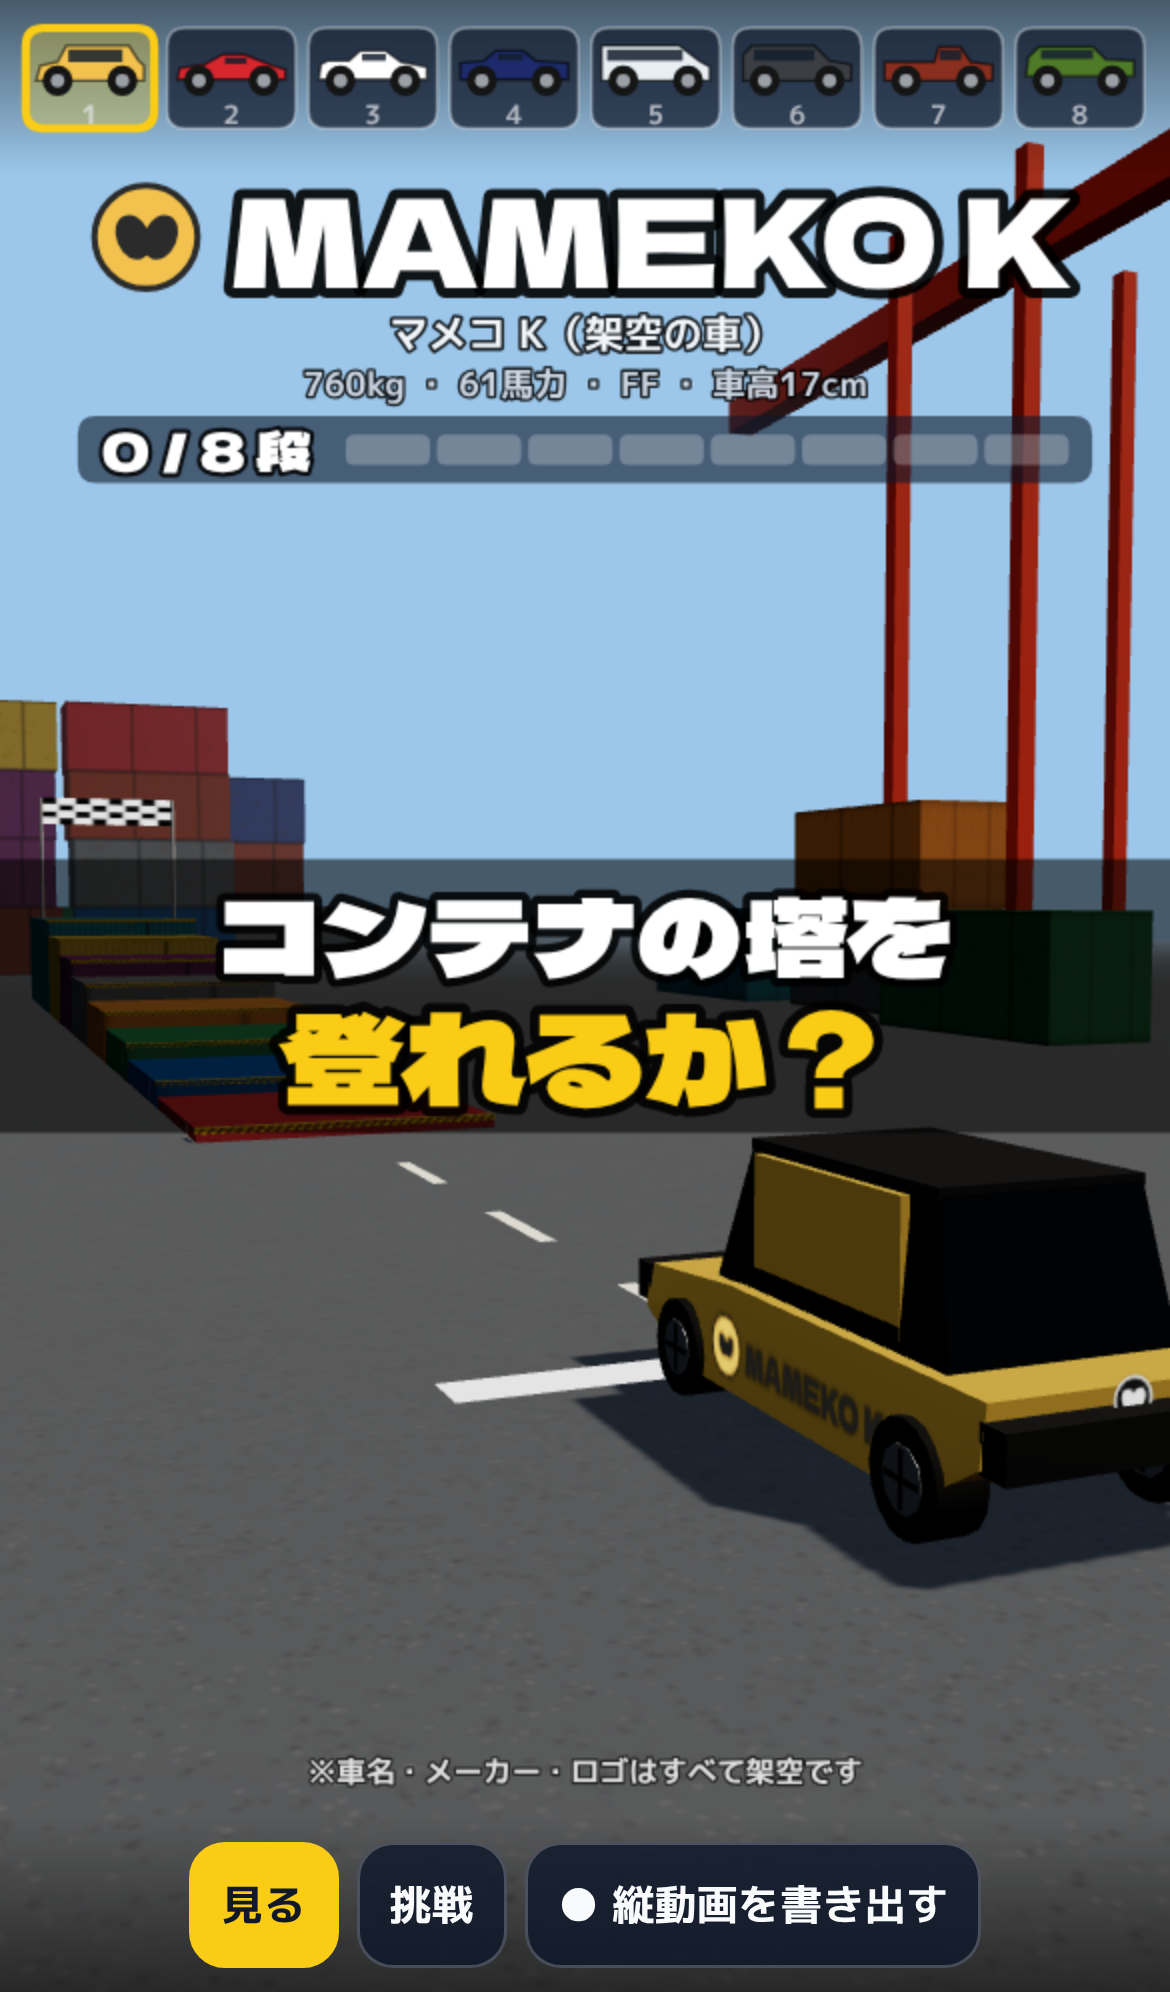
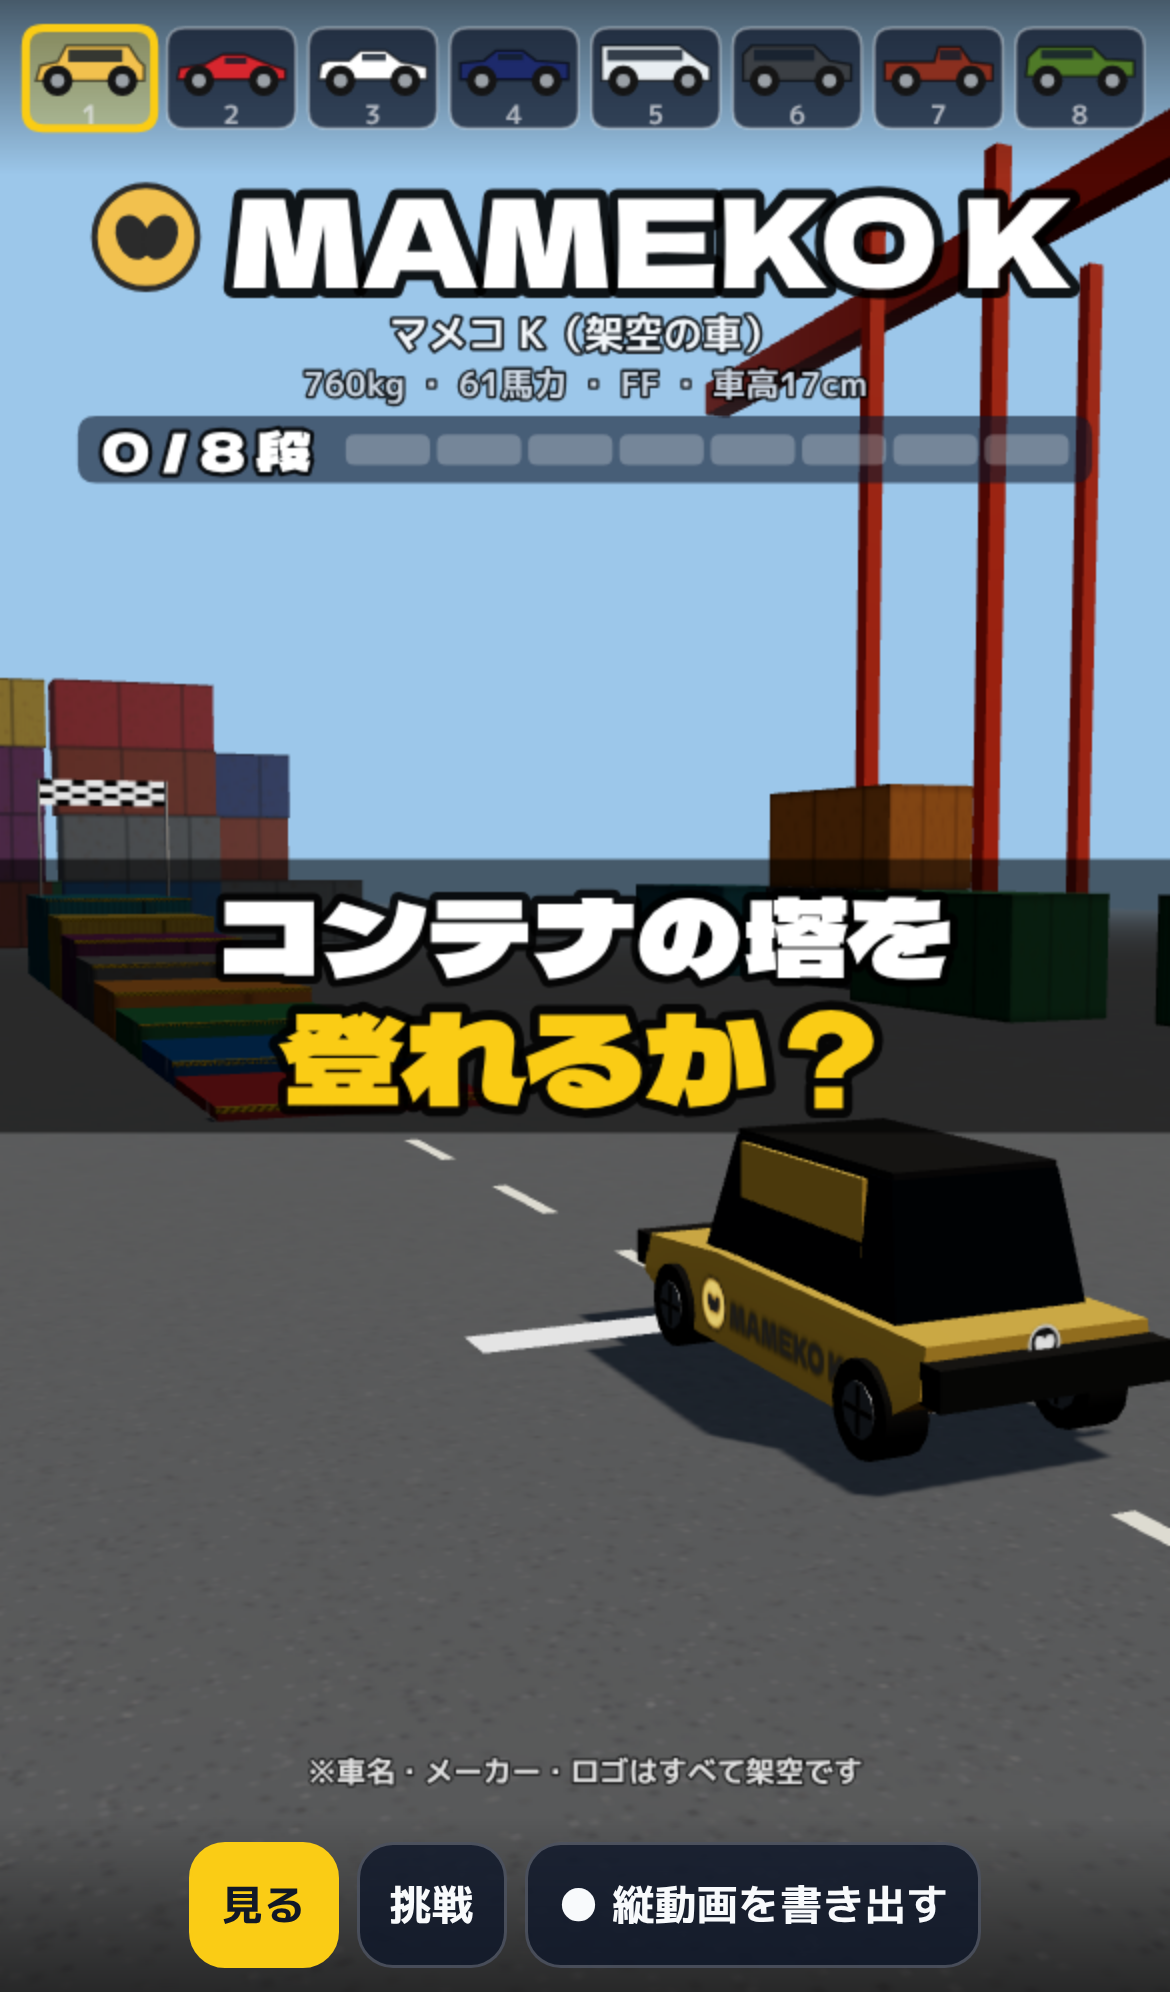
スマホの挑戦で注意書きを上へ・HANDOFF 更新・スクショ撮り直し
Claude-Session: https://claude.ai/code/session_01AB6rSN7T3PbeJQB8Lqmgfm

diff --git a/js/hud.js b/js/hud.js
@@ -88,6 +88,7 @@ export function drawHud(ctx, w, h, hud, opt = {}) {
     }
   });
 
+  let belowProgress = null;
   // 車の名前（大きく）
   const def = hud.cars[hud.current];
   if (def && !hud.summary) {
@@ -125,6 +126,7 @@ export function drawHud(ctx, w, h, hud, opt = {}) {
       ctx.fillStyle = i <= hud.block ? (i === hud.total - 1 ? YELLOW : GREEN) : 'rgba(255,255,255,0.25)';
       roundRect(ctx, bx + i * (segW + u * 0.6), py - segH / 2, segW, segH, segH * 0.3); ctx.fill();
     }
+    belowProgress = py + segH * 2;
   }
 
   // 2倍速の表示
@@ -193,6 +195,8 @@ export function drawHud(ctx, w, h, hud, opt = {}) {
   // 下の注意書き
   ctx.textAlign = 'center';
   const fs = Math.max(10, Math.min(u * 2.5, h * 0.018));
-  outlinedText(ctx, '※車名・メーカー・ロゴはすべて架空です', w / 2, h - (opt.safeBottom || 0) - fs * 1.2, fs, FONT_TEXT, 'rgba(255,255,255,0.85)', 'rgba(0,0,0,0.6)');
+  // 下のボタンが多いとき（スマホの挑戦）は、段の表示の下に出す
+  const dy = (opt.safeBottom || 0) > h * 0.2 && belowProgress ? belowProgress : h - (opt.safeBottom || 0) - fs * 1.2;
+  outlinedText(ctx, '※車名・メーカー・ロゴはすべて架空です', w / 2, dy, fs, FONT_TEXT, 'rgba(255,255,255,0.85)', 'rgba(0,0,0,0.6)');
   ctx.restore();
 }

diff --git a/HANDOFF.md b/HANDOFF.md
@@ -38,8 +38,17 @@
 - 11/18 描画（js/scene.js・js/car3d.js）・演出（js/effects.js：火花・煙・炎・へこみ・バンパー/タイヤが外れる）・画面（js/hud.js）・進行（js/main.js）
 - 11/18 Playwright で PC 幅（1366×768）・スマホ幅（iPhone 13）のスクリーンショット（docs/screens/）
 
+- 11/18 GitHub Pages で公開（gh-pages ブランチ。更新は `git push origin main:gh-pages`）：https://sugarsugiura.github.io/car-tower-game/
+- 11/18 録画ボタンを Playwright で試験：mp4 で保存できた（Chromium）。止まって空回りしている間は「▶▶ 2倍速」にして動画を短くした
+- 11/18 縦動画を tools/render_video.mjs で書き出し（動画は GitHub に入れない・決まり 1.8。Sugar には返事に添付）
+
+## 次の1週間の案（おすすめ順）
+1. 音を付ける：エンジン音・ぶつかる音・火花の音（実在の効果音素材を使う。自作の合成はしない）。ショートは音で伸びが変わる
+2. 塔のバリエーション：設定ファイルを増やして「高い塔」「細い塔」「段差がだんだん大きい塔」など、回ごとに違う塔を出せるようにする（シリーズ化）
+3. 車を増やす（16台・32台）と車の数字の自動調整（tune.mjs で✓✗の比率を狙って決める）
+4. 演出の強化：スローモーションの見せ場（落ちる・燃える瞬間）、カメラの切り替え、結果の効果音
+5. 書き出しの強化：スマホでも書き出せる（今は PC の Chrome・Edge が確実）、最初の3秒の煽りの文字を選べる
+
 ## 次にやること
-- [ ] 縦動画を1本書き出す（tools/render_video.mjs）。動画は GitHub に入れない（10MB を超える・決まり 1.8）
-- [ ] GitHub Pages の公開
-- [ ] スマホの重さの確認・文字の重なりの最終確認
-- [ ] 次の1週間の案を Sugar に出す
+- [ ] Sugar に動画・スクショ・リンクを出す（返事）
+- [ ] 実機スマホで重さを確かめてもらったら、重ければ ?q=low（影なし）を既定にする
